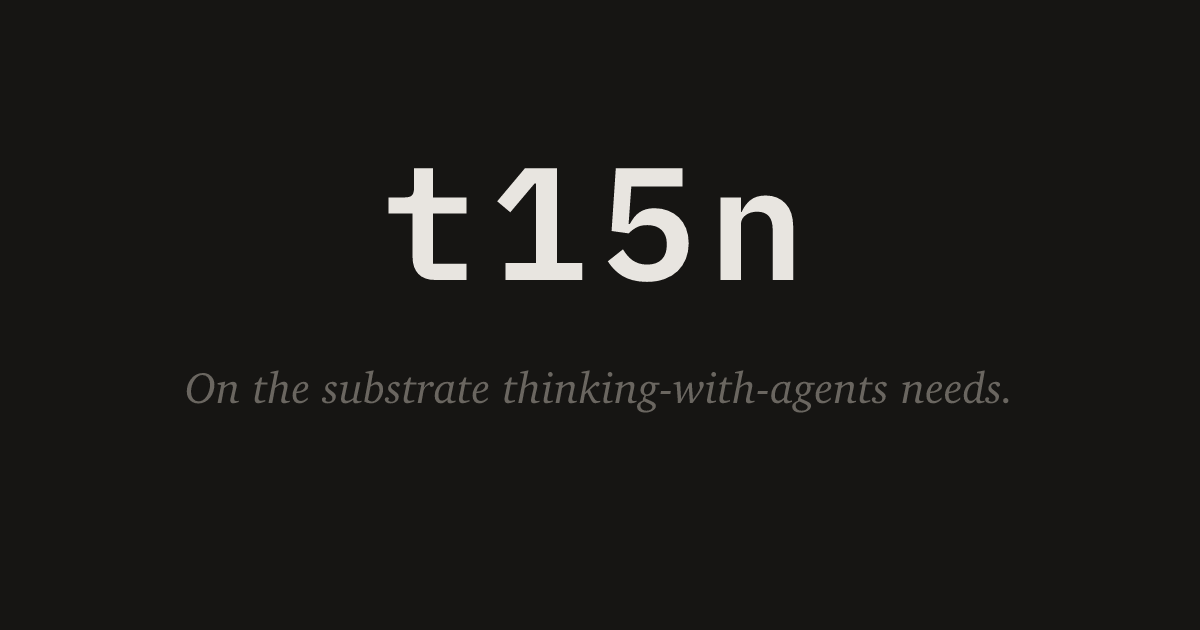
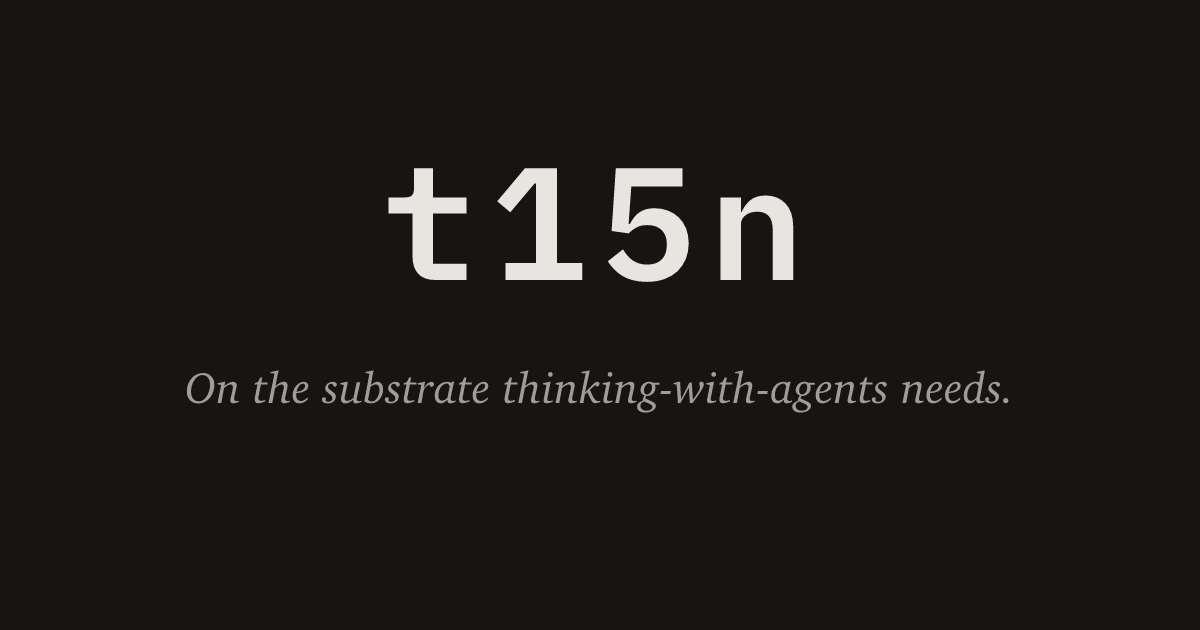
Use --fg2 for OG card dim text for better legibility
#6a6660 (--fg3) was too low contrast for secondary content like topic tags
and author/date lines at social preview sizes. #a09c96 (--fg2) reads clearly
while still being subordinate to the main title.

https://claude.ai/code/session_01DAkkgehkVeXWA9nk2ASH1k

Changed region(s): [[0.1542, 0.6032, 0.8325, 0.6635]]

diff --git a/scripts/build-og.ts b/scripts/build-og.ts
@@ -15,7 +15,7 @@ const HEIGHT = 630
 const PAD = 80
 const BG = '#161513'
 const FG = '#e8e5e0'
-const DIM = '#6a6660'
+const DIM = '#a09c96'
 
 async function loadFonts() {
   const [charterBold, charterItalic, plexRegular, plexBold] = await Promise.all([